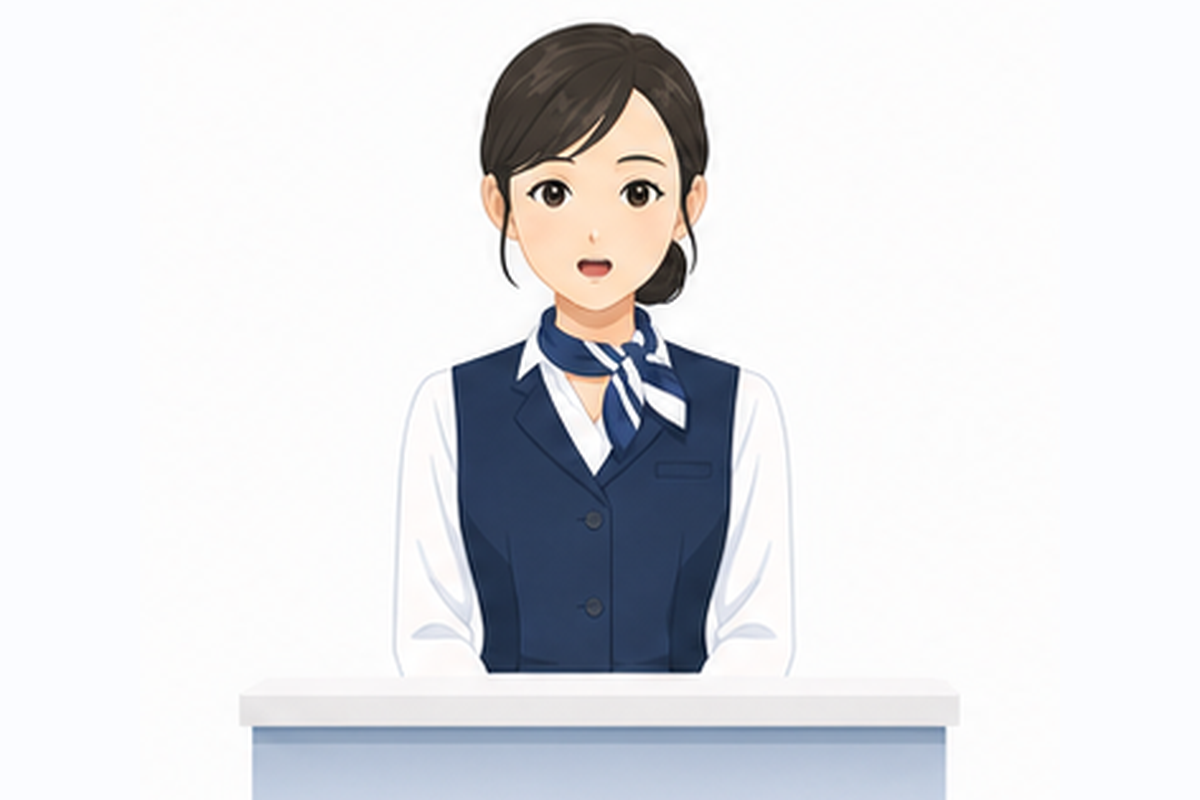
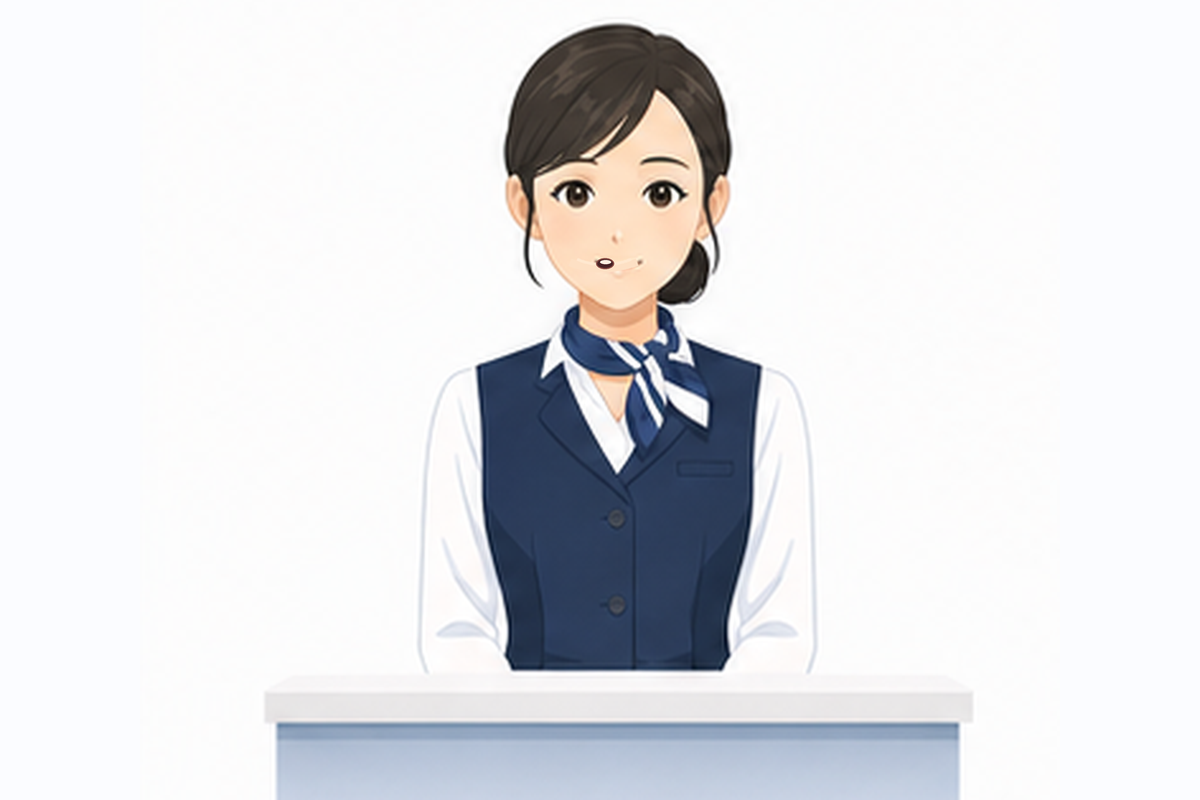
Stabilize receptionist mouth animation frames

Changed region(s): [[0.3392, 0.0312, 0.6783, 0.8438], [0.185, 0.875, 0.8017, 1.0], [0.4933, 0.75, 0.5242, 0.7812]]

diff --git a/README.md b/README.md
@@ -9,7 +9,7 @@
 - グラフ色数を絞った青系カラーパレット
 - 装飾よりも数値・比較・要対応の発見しやすさを優先
 - 日本のEC運用者向けの日本語文言
-- AI受付スタッフ画面は全体生成した12枚の受付スタッフ画像、ブラウザ読み上げ、固定デモ応答のみで構成
+- AI受付スタッフ画面は固定ベース画像に口差分だけを焼き込んだ12枚の受付スタッフ画像、ブラウザ読み上げ、固定デモ応答のみで構成
 
 ## 開き方
 
@@ -33,7 +33,7 @@ http://127.0.0.1:8765/
 - データは `index.html` 内の固定デモデータのみです。
 - AI受付の読み上げはブラウザ標準の `SpeechSynthesis` を使います。ChatGPT/Codex CLIやOpenAI APIには接続していません。
 - 受付スタッフ画像は `assets/receptionist/` 配下のローカルアセットです。
-- 応答中は `staff-talk-00.png` から `staff-talk-11.png` までの全体画像を切り替えて話しているように見せます。
+- 応答中は `staff-talk-00.png` から `staff-talk-11.png` までの全体画像を切り替えます。髪・目・肩・机・背景は全フレームで同一にし、口元だけを変更しています。
 - CSPで `connect-src 'none'` を設定し、ブラウザからのネットワーク通信を禁止しています。
 - ローカル確認サーバーを使う場合は `127.0.0.1` に限定してください。
 
